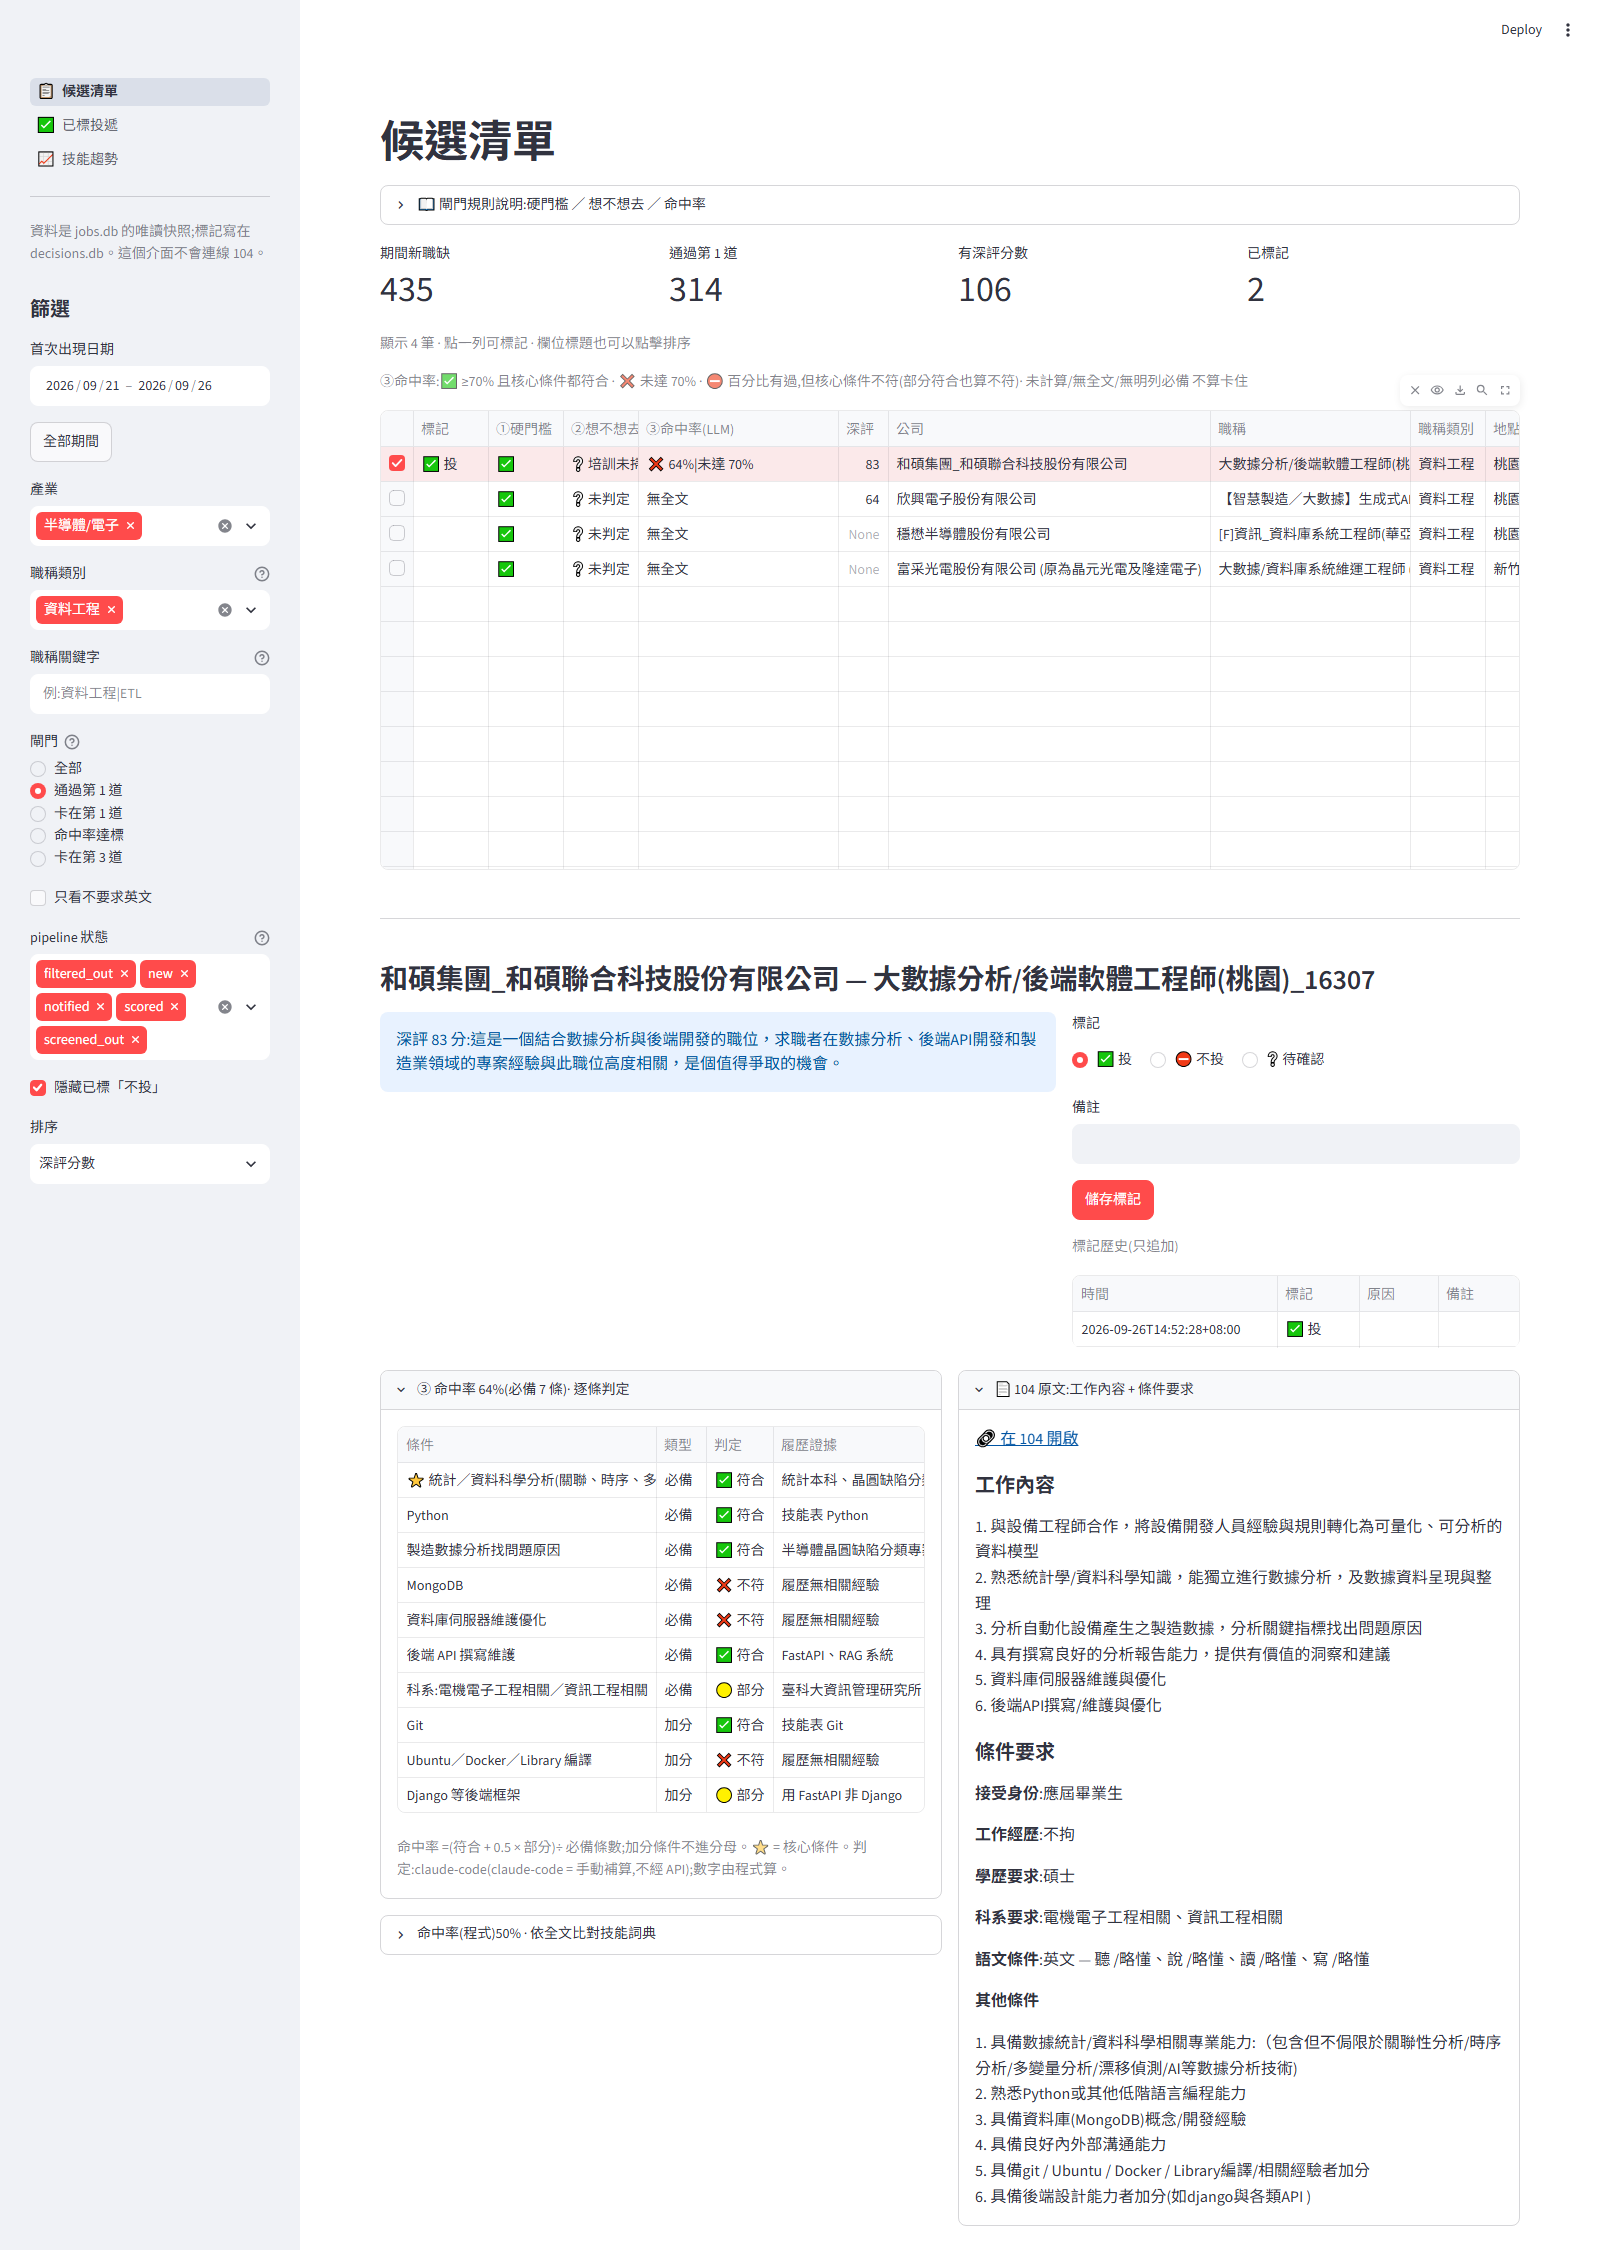
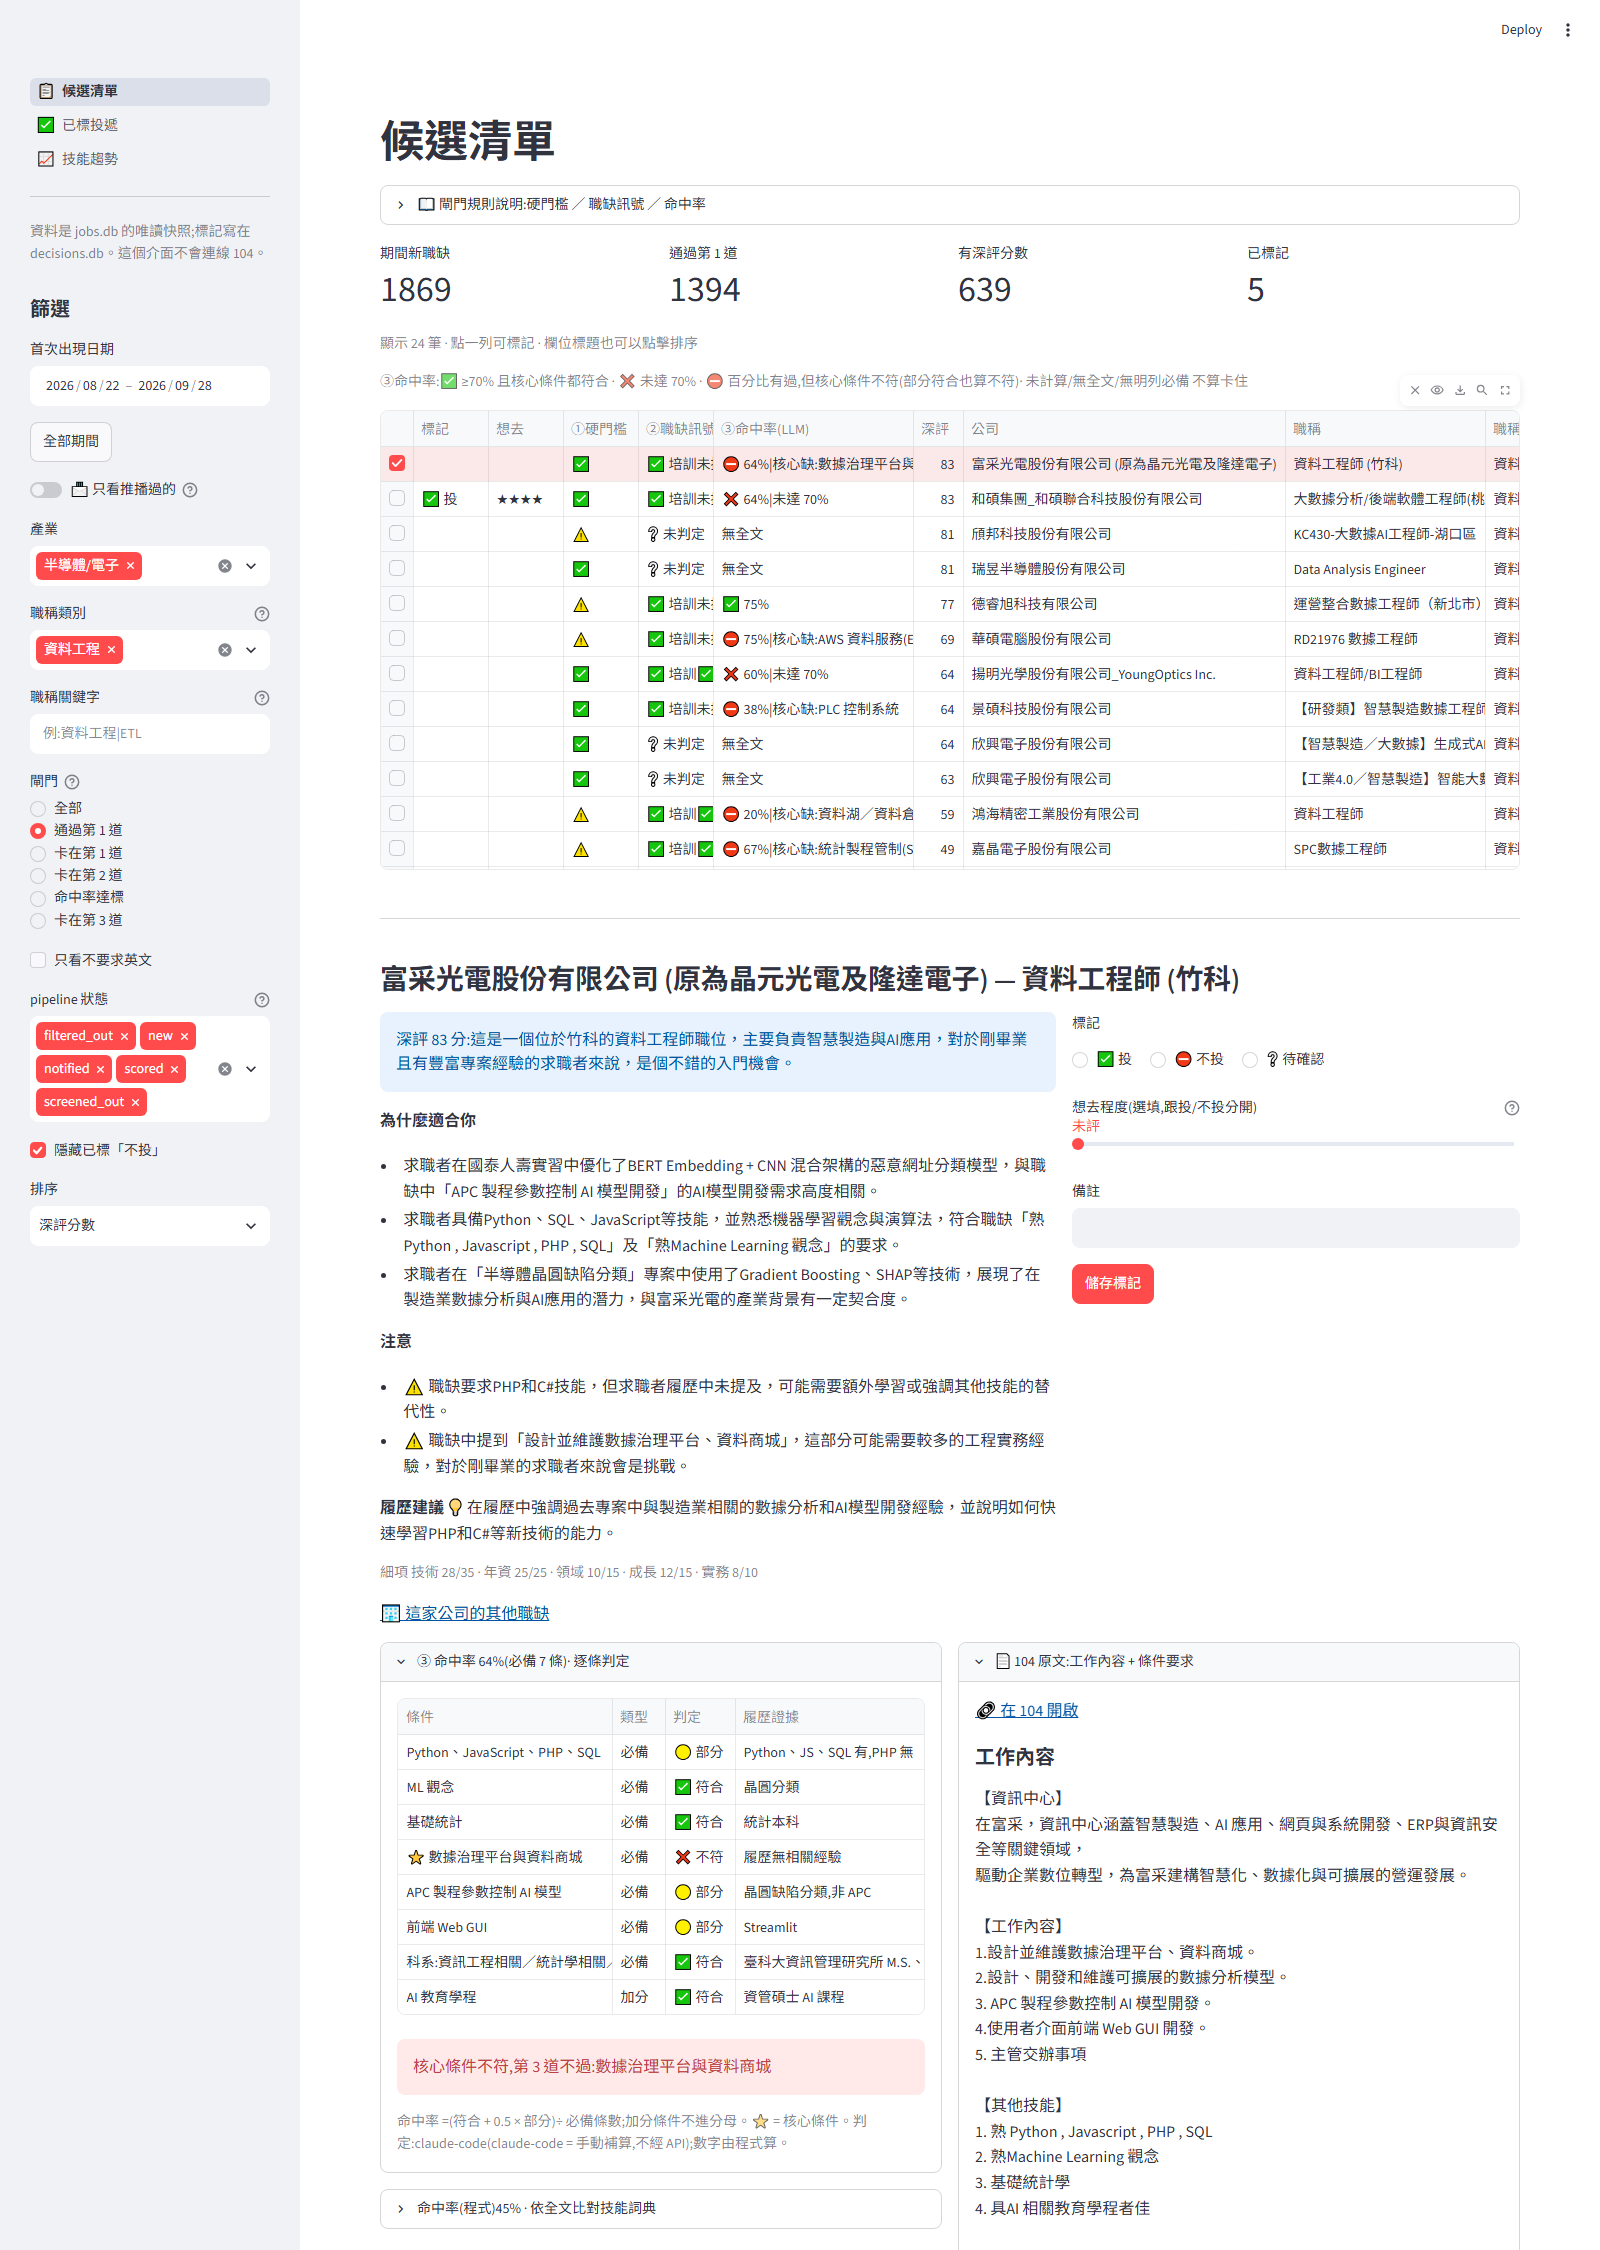
feat(webui): 已標投遞頁顯示想去程度;更新 README 候選清單截圖

diff --git a/src/jobfinder/webui/app.py b/src/jobfinder/webui/app.py
@@ -473,6 +473,7 @@ def _decision_form(job: JobRow) -> None:
 def applied_page() -> None:
     rows = load_rows()
     latest = store().latest()
+    desires = store().latest_desires()
     applied = [r for r in rows if (d := latest.get(r.job_no)) is not None and d.status == "apply"]
     applied.sort(key=lambda r: latest[r.job_no].decided_at, reverse=True)
 
@@ -486,6 +487,7 @@ def applied_page() -> None:
         [
             {
                 "decided_at": latest[r.job_no].decided_at[:16].replace("T", " "),
+                "desire": desire_stars(desires.get(r.job_no)),
                 "company": r.company,
                 "title": r.title,
                 "gate3": gate3_label(r),
@@ -506,6 +508,9 @@ def applied_page() -> None:
         selection_mode="single-row",
         column_config={
             "decided_at": "標記時間",
+            "desire": st.column_config.TextColumn(
+                "想去", width="small", help="想去程度 1–5;空白 = 還沒評,到候選清單點該職缺評分"
+            ),
             "company": "公司",
             "title": st.column_config.TextColumn("職稱", width="medium"),
             "gate3": st.column_config.TextColumn("③命中率(LLM)", width="medium"),

diff --git a/README.md b/README.md
@@ -59,7 +59,7 @@ flowchart LR
 
 ![候選清單：三道閘門燈號、點選一列後顯示標記表單、命中率逐條判定與 104 原文](docs/images/webui-candidates.png)
 
-*候選清單。點選一筆職缺後，左下方逐條列出必備條件的判定和履歷上的證據，右下方是 104 的原文，可以直接對照。*
+*候選清單。點選一筆職缺後，上方是深評理由與標記表單（含想去程度 1–5），左下方逐條列出必備條件的判定和履歷上的證據，右下方是 104 的原文，可以直接對照。*
 
 - **候選清單**：三道閘門依序是硬門檻、職缺訊號（SI、打雜等紅燈）、必備命中率，每筆職缺都顯示卡在第幾道。可以標記「投」、「不投」、「待確認」；選「不投」時必須填原因，這些原因之後可以用來回頭檢討閘門設得對不對。另外可以替每家公司評 1–5 的「想去程度」，累積起來分析自己的偏好。清單可匯出成 Markdown 或 CSV。
 - **已標投遞**：列出確定要投的職缺，並依照 JD 條件和履歷的落差，產生履歷修改建議。
